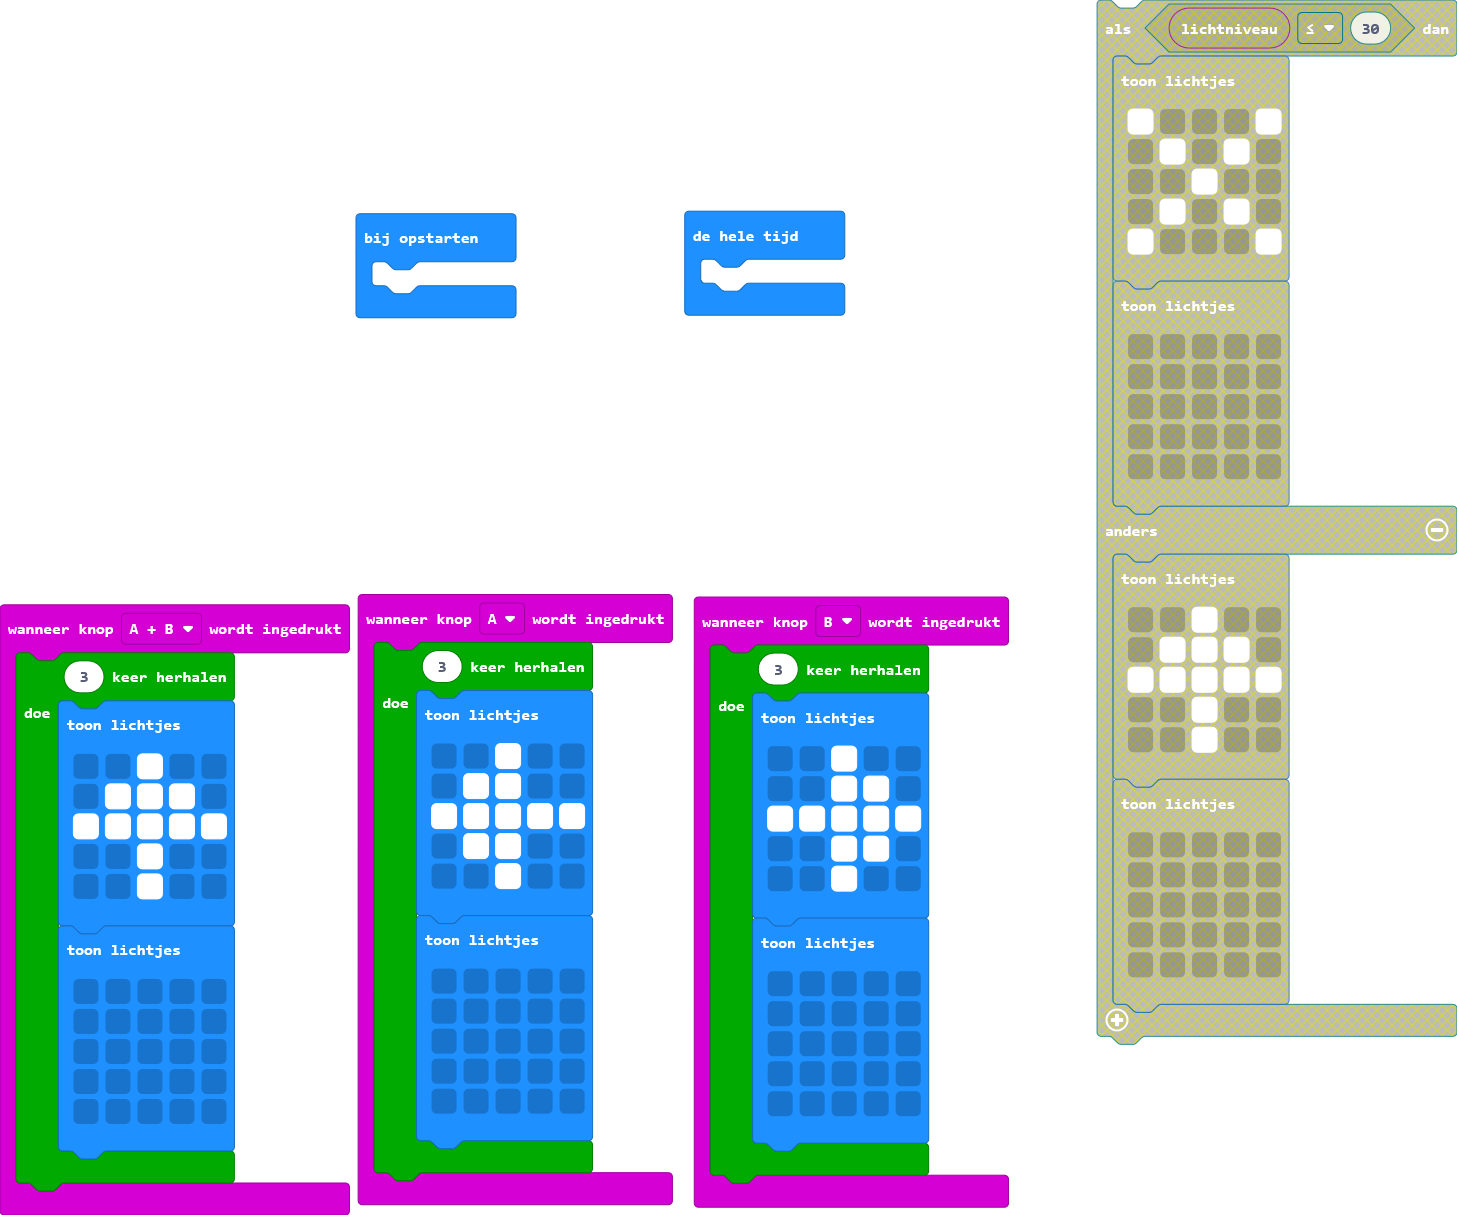
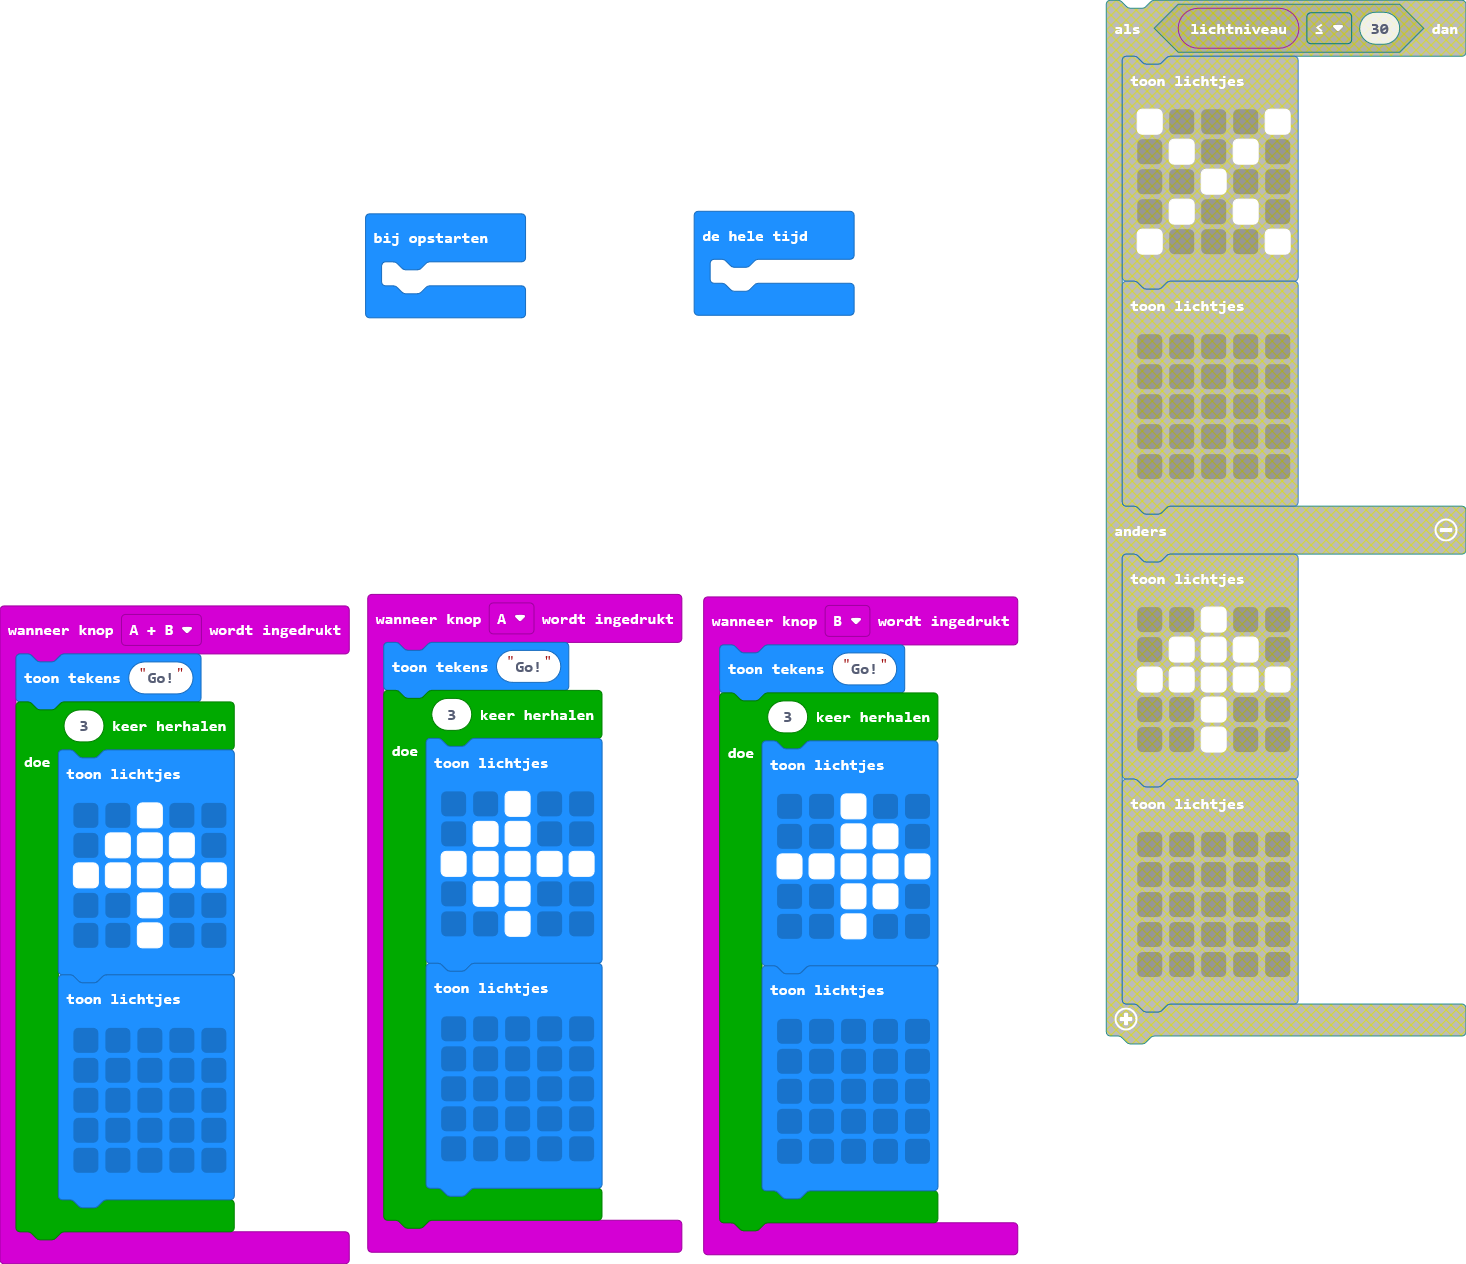
main.blocks, main.ts bijwerken

diff --git a/main.ts b/main.ts
@@ -1,4 +1,5 @@
 input.onButtonPressed(Button.A, function () {
+    basic.showString("Go!")
     for (let index = 0; index < 3; index++) {
         basic.showLeds(`
             . . # . .
@@ -17,6 +18,7 @@ input.onButtonPressed(Button.A, function () {
     }
 })
 input.onButtonPressed(Button.AB, function () {
+    basic.showString("Go!")
     for (let index = 0; index < 3; index++) {
         basic.showLeds(`
             . . # . .
@@ -35,6 +37,7 @@ input.onButtonPressed(Button.AB, function () {
     }
 })
 input.onButtonPressed(Button.B, function () {
+    basic.showString("Go!")
     for (let index = 0; index < 3; index++) {
         basic.showLeds(`
             . . # . .
